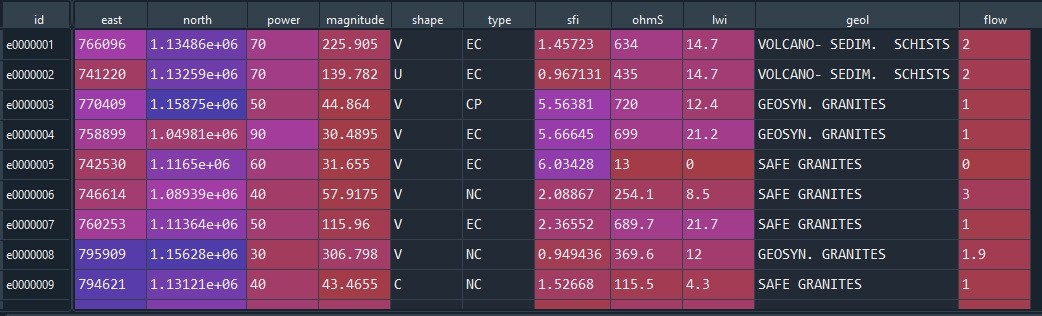
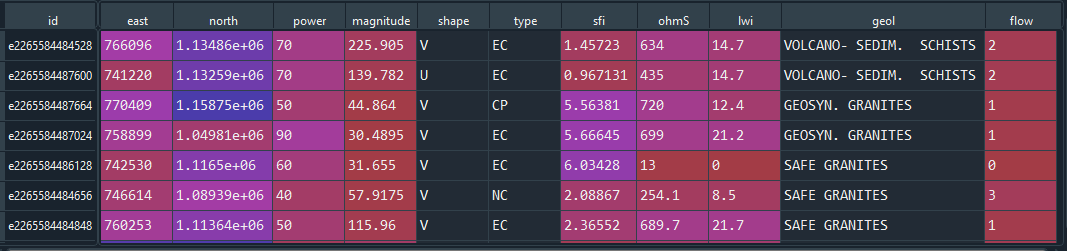
add Id modules

diff --git a/watex/core/geofeatures.py b/watex/core/geofeatures.py
@@ -190,7 +190,7 @@ class Features:
                 
         if self.features_fn is None and fimp ==1:
             raise Wex.WATexError_geoFeatures(
-                'Features file is not given. Please provided specific'
+                'Features file is not given. Please provide specific'
                 ' objects from`erp`, `ves`, `geology` and `borehole` data'
                 'Call each specific collection class to build each'
                 ' collection features.')
@@ -214,8 +214,8 @@ class Features:
                     except : 
                         utm_easting, utm_northing, \
                             self.utm_zone= gisf.project_point_ll2utm(
-                            lat=self._longitude[ii],
-                            lon = self._latitude[ii])
+                            lat=self.df['lat'].to_numpy()[ii],
+                            lon = self.df['lon'].to_numpy()[ii])
                         
                     self._easting[ii] = utm_easting
                     self._northing [ii] = utm_northing
@@ -236,15 +236,17 @@ class Features:
                             self.df.pop('lon')
                         except: 
                            self._logging.debug(
-                               'No way to delete `lat` and `lon` in features '
-                               "dataframe. It seems there is no `lat` & `lon`"
-                               " series in your dataFrame.") 
+                               'No way to remove `lat` and `lon` in features '
+                               "dataFrame. It seems there is no `lat` & `lon`"
+                               " pd.series in your dataFrame.") 
             
             #Keep location names 
-            self.site_ids =np.array(['e{0}'.format(id(name.lower())) 
+            self.df['id']=np.array(['e{0}'.format(id(name.lower())) 
                                   for name in self.df['id']])
-            self.df['id'] = np.array(['e{0:07}'.format(ii+1) 
-                                     for ii in range(len(self.site_ids))])
+    
+            self.id =np.copy(self.df['id'].to_numpy())
+            self.id_ = np.array(['e{0:07}'.format(ii+1) 
+                                     for ii in range(len(self.df['id']))])
             # rebuild the dataframe from main features
             self.df = pd.concat({
                 featkey: self.df[featkey] 
@@ -271,20 +273,23 @@ class Features:
                                                    len(self.featureLabels))), 
                                   columns = self.featureLabels)
             
-            newID= self.controlObjId(erpObjID=self.ErpColObjs.erpdf['id'], 
+            self.id_= self.controlObjId(
+                              erpObjID=self.ErpColObjs.erpdf['id'], 
                               boreObjID=self.borehObjs.borehdf['id'], 
                               geolObjID=self.geoObjs.geoldf['id'], 
-                              vesObjsID= self.vesObjs.vesdf['id'])
+                              vesObjsID= self.vesObjs.vesdf['id']
+                              )
             
-            self.df =self.merge(self.ErpColObjs.erpdf.drop(['id'], axis=1),
+            self.df =self.merge(self.ErpColObjs.erpdf, #.drop(['id'], axis=1),
                                 self.vesObjs.vesdf['ohmS'],
                                 self.geoObjs.geoldf['geol'], 
                                 self.borehObjs.borehdf[['lwi', 'flow']], 
                                 right_index=True, 
                                 left_index=True)
             
-            self.df.insert(loc=0, column ='id', value = newID)
-
+            #self.df.insert(loc=0, column ='id', value = newID)
+            self.id =self.ErpColObjs.erpdf['id'].to_numpy()
+            
         self.df.set_index('id', inplace =True)
         self.df =self.df.astype({'east':np.float, 
                       'north':np.float, 
@@ -296,7 +301,15 @@ class Features:
                       'flow':np.float
                       })
             
-   
+        # populate site names attributes 
+        for attr_ in self.site_names: 
+            if not hasattr(self, attr_): 
+                setattr(self, attr_, ID()._findFeaturePerSite_(
+                                        _givenATTR=attr_, 
+                                        sns=self.site_names,
+                                        df_=self.df,
+                                        id_=self.id, 
+                                        id_cache= self.id_))
             
             
     def sanitize_fdataset(self): 
@@ -356,7 +369,6 @@ class Features:
             for ii, celemnt in enumerate(columns): 
                 for listOption, param in zip(optionsList, params): 
                      for option in listOption:
-    
                          if param =='lwi': 
                             if celemnt.find('eau')>=0 : 
                                 columns[ii]=param 
@@ -488,21 +500,104 @@ class Features:
                     "Survey location's name must be the same for `erp`, "
                     ' `ves` and `geol` but you are given '
                     '<{0}, {1}, {2}> respectively. Please rename'
-                    ' names to be the same everywhere'.format(erObj, bhObj,
+                    ' names to be the same everywhere.'.format(erObj, bhObj,
                                                            geolObj))
         return new_id 
+ 
+class ID: 
+    """
+    Special class to manage Feature's ID. Each `erp` or `ves` or `geol` and
+    `borehole` name can be an attribute of the each collection class. 
+    Eeach survey line is identified with its  common `ID` and point to 
+    the same name.
+    
+    :param givenATTR:  Station or location name considered a 
+                    new name for attribute creating
+    :type givenATTR: str 
+    
+    :param sns: Station names from `erp`, `ves` and `geol`. 
+    :type sns: array_like or sns
+    
+    :param id_: 
+        Indentification site number. See col ``id`` of :attr:`~geofeatures.id_`
+    :param id_cache: 
+        New id of station number kept on caches 
+    :param df_: Features dataFrame. Refer to :attr:~geofeatures.df 
+    
+    :Example: 
         
+        >>> from watex.core.geofeatures import Features, ID
+        >>> featObj =Features(features_fn= 
+        ...                      'data/geo_fdata/BagoueDataset2.xlsx' )
+        >>> featObj.b126
         
+    where ``b126`` is the surveyname and `featObj.b126` is data value 
+    extracted from features dataFrame :attr:`watex.core.geofeatures.Features.df`
+    
+    :Note: To extract data from station location name `sns`, be sure to write 
+    the right name. If not an `AttributeError` occurs. 
+    
+    """
+    
+    def __init__(self, **kwargs): 
+        self._logging = watexlog().get_watex_logger(self.__class__.__name__)
+
+        for key in list(kwargs.keys()): 
+            setattr(self, key, kwargs[key])
+        
+        if hasattr(self, '_givenATTR'): 
+            self._findFeaturePerSite_()
+            
+    def _findFeaturePerSite_(self, _givenATTR, sns=None, df_=None, id_=None, 
+                             id_cache=None ): 
+        """Check the report between `site_names ` and `ids`. If `givenATTR is 
+        among `sns` or reference object `id_` or `id_cache` then value of 
+        given station name will be selected as a dataframe.
+        
+        :param givenATTR: 
+            
+            Station or location name considered a new name for attribute 
+            creating:: 
+                
+                >>> from watex.core.geofeatures import Features
+                >>> location_name ='gbalo_l10'
+                >>> Features.gbalo
+                
+        :return: As select part of DataFrame
+        :rtype: pd.DataFrame 
+        
+        """
+        for attr, value in zip(['_givenATTR', 'df_', 'sns', 'id_cache', 'id_'], 
+                             [_givenATTR, df_, sns, id_cache, id_]): 
+            if not hasattr(self, attr): 
+                setattr(self, attr, value)
+
+        for ii, (name, id_, idp_) in enumerate(zip(self.sns,self.id_,
+                                                    self.id_cache)) : 
+             if self._givenATTR.lower() == name or \
+                 self._givenATTR.lower()==id_ \
+                 or self._givenATTR.lower() == idp_ : 
+                 self.select_ = self.df_.iloc[
+                     [int( idp_.replace('e', '')) - 1]]
+                 
+        return self.select_ 
+
+                    
+                
+            
         
 if __name__=='__main__': 
     featurefn ='data/geo_fdata/BagoueDataset2.xlsx' 
     
     featObj =Features(features_fn= featurefn)
     
-    print(featObj.site_ids)
-    print(featObj.site_names)
-    dff= featObj.df
-    print(dff)
+    print(featObj.df)
+    # print(featObj.site_names)
+    # print(featObj.id_)
+    # print(featObj.id)
+    print(featObj.b126)
+    # dff= featObj.df
+    # print(dff)
        
         
         

diff --git a/watex/core/erp.py b/watex/core/erp.py
@@ -401,9 +401,9 @@ class ERP_collection:
 
 class ERP : 
     """
-    Electrical resistivity profiling class . computes and plot ERP 
-    define anomalies and compute its features. can select multiples anomalies 
-    on ERP and gve their features values. 
+    Electrical resistivity profiling class . Define anomalies and compute
+    its features. Can select multiples anomalies  on ERP and give their
+    features values. 
     
     Arguments: 
     ----------
@@ -459,7 +459,7 @@ class ERP :
         >>> from watex.core.erp import ERP 
         >>> anomaly_obj =ERP(erp_fn = '~/location_filename')
         
-    The call the following `erp` properties attributes:
+    The call of the following `erp` properties attributes:
     
     ====================  ================  ===================================
     properties              Type                Description  
@@ -478,7 +478,7 @@ class ERP :
     abest_type              str             Best anomaly type. Can be : 
                                             - ``EC`` for Extensive conductive. 
                                             - ``NC`` for narrow conductive. 
-                                            - ``CP`` for conductive PLANE 
+                                            - ``CP`` for conductive plane. 
                                             - ``CB2P`` for contact between two
                                             planes. 
     ====================  ================  ===================================
@@ -1043,7 +1043,7 @@ def get_type (erp_array, posMinMax, pk, pos_array, dl):
 
     """
     # Get position index 
-    anom_type ='PC'
+    anom_type ='CP'
     index_pos = int(np.where(pos_array ==pk)[0])
     if erp_array [:index_pos +1].mean() < np.median(erp_array) or\
         erp_array[index_pos:].mean() < np.median(erp_array) : 

diff --git a/README.md b/README.md
@@ -153,15 +153,6 @@ considered as Python object:
 >>> featObj.site_ids
 >>> featObj.site_names
 >>> featObj.df
-Out[10]:
-              east      north  power  ...   lwi                      geol  flow
-id                                    ...                                      
-e0000001  766096.0  1134857.0   70.0  ...  14.7  VOLCANO- SEDIM.  SCHISTS   2.0
-e0000002  741220.0  1132591.0   70.0  ...  14.7  VOLCANO- SEDIM.  SCHISTS   2.0
-e0000003  770409.0  1158750.0   50.0  ...  12.4          GEOSYN. GRANITES   1.0
-e0000004  758899.0  1049812.0   90.0  ...  21.2          GEOSYN. GRANITES   1.0
-e0000005  742530.0  1116498.0   60.0  ...   0.0             SAFE GRANITES   0.0
-
 ```
 
 ## System requirements 
